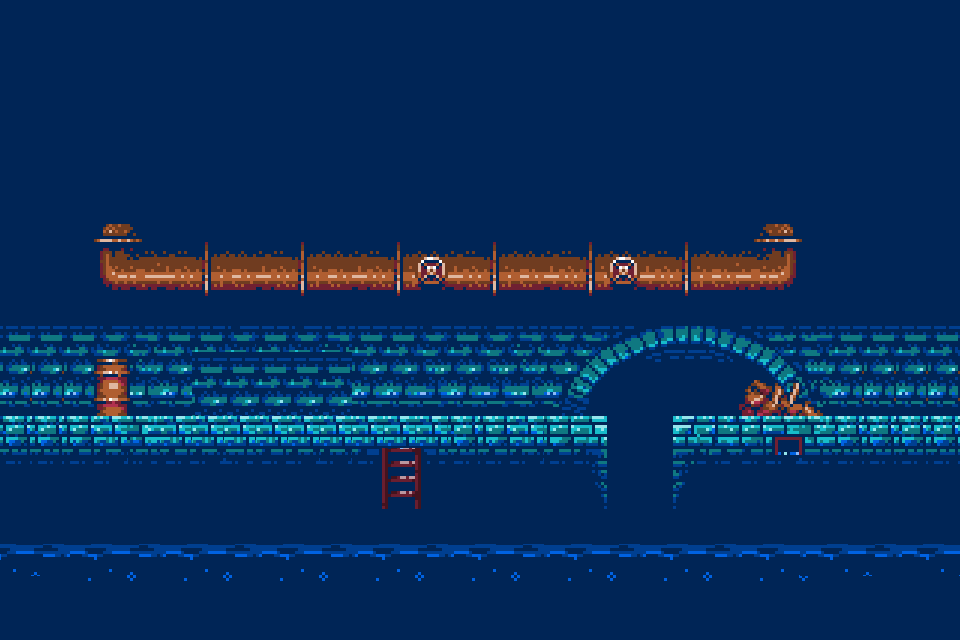
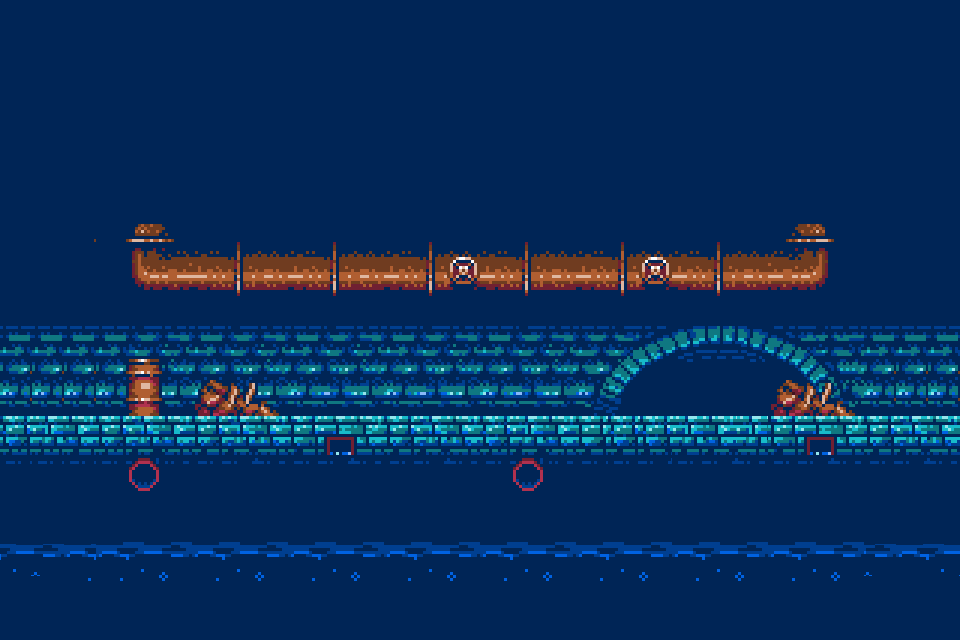
updated camera movement and added new bg

Changed region(s): [[0.0312, 0.5, 1.0, 0.7812], [0.0938, 0.3438, 0.875, 0.4688], [0.0938, 0.8438, 0.9062, 0.875]]

diff --git a/main.py b/main.py
@@ -5,9 +5,9 @@ from movement import *
 from quest import *
 # from dialogue import Dialogue  # Commented out for testing
 # import pygame_gui  # Commented out for testing
-from maploader import MapLoader
-from player import TrashBin  # Import TrashBin class
-from quest import play_first_quest  # for quests
+from maploader import *
+from player import *  # Import TrashBin class
+from quest import *  # for quests
 
 
 
@@ -17,31 +17,29 @@ pygame.init()
 screen = pygame.display.set_mode((SCREEN_WIDTH, SCREEN_HEIGHT))
 pygame.display.set_caption("2 Blind Mice")
 clock = pygame.time.Clock()
-# manager = pygame_gui.UIManager((SCREEN_WIDTH, SCREEN_HEIGHT))  # Commented out for testing
-
 
 # Initialize MapLoader
 map_loader = MapLoader("sewermap.png")
 map_loader.load_map()
 
-# Create an instance of PlayerMovement
+# Create Player
 player = PlayerMovement(SCREEN_WIDTH, SCREEN_HEIGHT, GROUND_HEIGHT)
 
-# --- Trash Bin Setup ---
-trash_bin = TrashBin((TILE_SIZE * 11, TILE_SIZE * 20))  # Placed rightward
-
-# --- Sprite Groups ---
+# Sprite Groups 
 all_sprites = pygame.sprite.Group()
-interactables = pygame.sprite.Group()
-
 all_sprites.add(player)
-all_sprites.add(trash_bin)
-interactables.add(trash_bin)
 
-# --- Cheese Count ---
+# Cheese Count
 cheese_count = 1
-# --- 1st quest ---
+
+# Quest State 
 e_pressed_last_frame = False
+
+# Camera Offset 
+camera_offset = pygame.Vector2(0, 0)
+def center_camera_on_player(player_rect):
+    camera_offset.x = player.rect.x - SCREEN_WIDTH // 2
+    camera_offset.y = player.rect.y - SCREEN_HEIGHT // 2
 
 # --- Game Loop ---
 running = True
@@ -49,9 +47,7 @@ while running:
     for event in pygame.event.get():
         if event.type == pygame.QUIT:
             running = False
-        # Pass events to pygame_gui
-        # manager.process_events(event)  # Commented out for testing
-
+        
     # --- Movement Input ---
     keys = pygame.key.get_pressed()
     player.handle_input(keys)
@@ -68,16 +64,18 @@ while running:
         print("Quest result:", result)
         screen = pygame.display.set_mode((SCREEN_WIDTH, SCREEN_HEIGHT))
         pygame.display.set_caption("2 Blind Mice")
+    
+    # Center camera
+    center_camera_on_player(player)
 
-    # --- Draw ---
-    screen.fill((30, 30, 30))  # Clear the screen
-    map_loader.draw_map(screen)  # Draw the map background
+    # Draw background and map
+    screen.fill((30, 30, 30))
+    map_loader.draw_map(screen, camera_offset)
     
     # Draw player
     player.draw(screen, keys)
-    # dialogue.draw()  # Draw the dialogue box  # Commented out for testing
 
-        # Update display
+    # Update display
     pygame.display.flip()
 
     # Cap the frame rate

diff --git a/maploader.py b/maploader.py
@@ -1,16 +1,28 @@
 import pygame
+from misc import *
 
 class MapLoader:
-    def __init__(self, map_path):
-        self.map_path = map_path
-        self.background = None
+    def __init__(self, map_image_path):
+        self.map_image = pygame.image.load(map_image_path).convert()
+        self.map_rect = self.map_image.get_rect()
 
     def load_map(self):
-        """Load the map background image."""
-        self.background = pygame.image.load(self.map_path).convert()
+        # Placeholder in case you need to expand
+        pass
 
-    def draw_map(self, screen):
-        """Draw the map background onto the screen."""
-        if self.background:
-            screen.blit(self.background, (0, 0))
+    def draw_map(self, surface, camera_offset):
+        surface.blit(self.map_image, (-camera_offset.x, -camera_offset.y))
+
+# Camera class to manage camera offset
+class Camera:
+    def __init__(self, width, height):
+        self.offset = pygame.Vector2(0, 0)
+        self.width = width
+        self.height = height
+
+    def center_on(self, target_rect):
+        self.offset.x = target_rect.centerx - SCREEN_WIDTH // 2
+        self.offset.y = target_rect.centery - SCREEN_HEIGHT // 2
+
+camera = Camera(SCREEN_WIDTH, SCREEN_HEIGHT)
 
